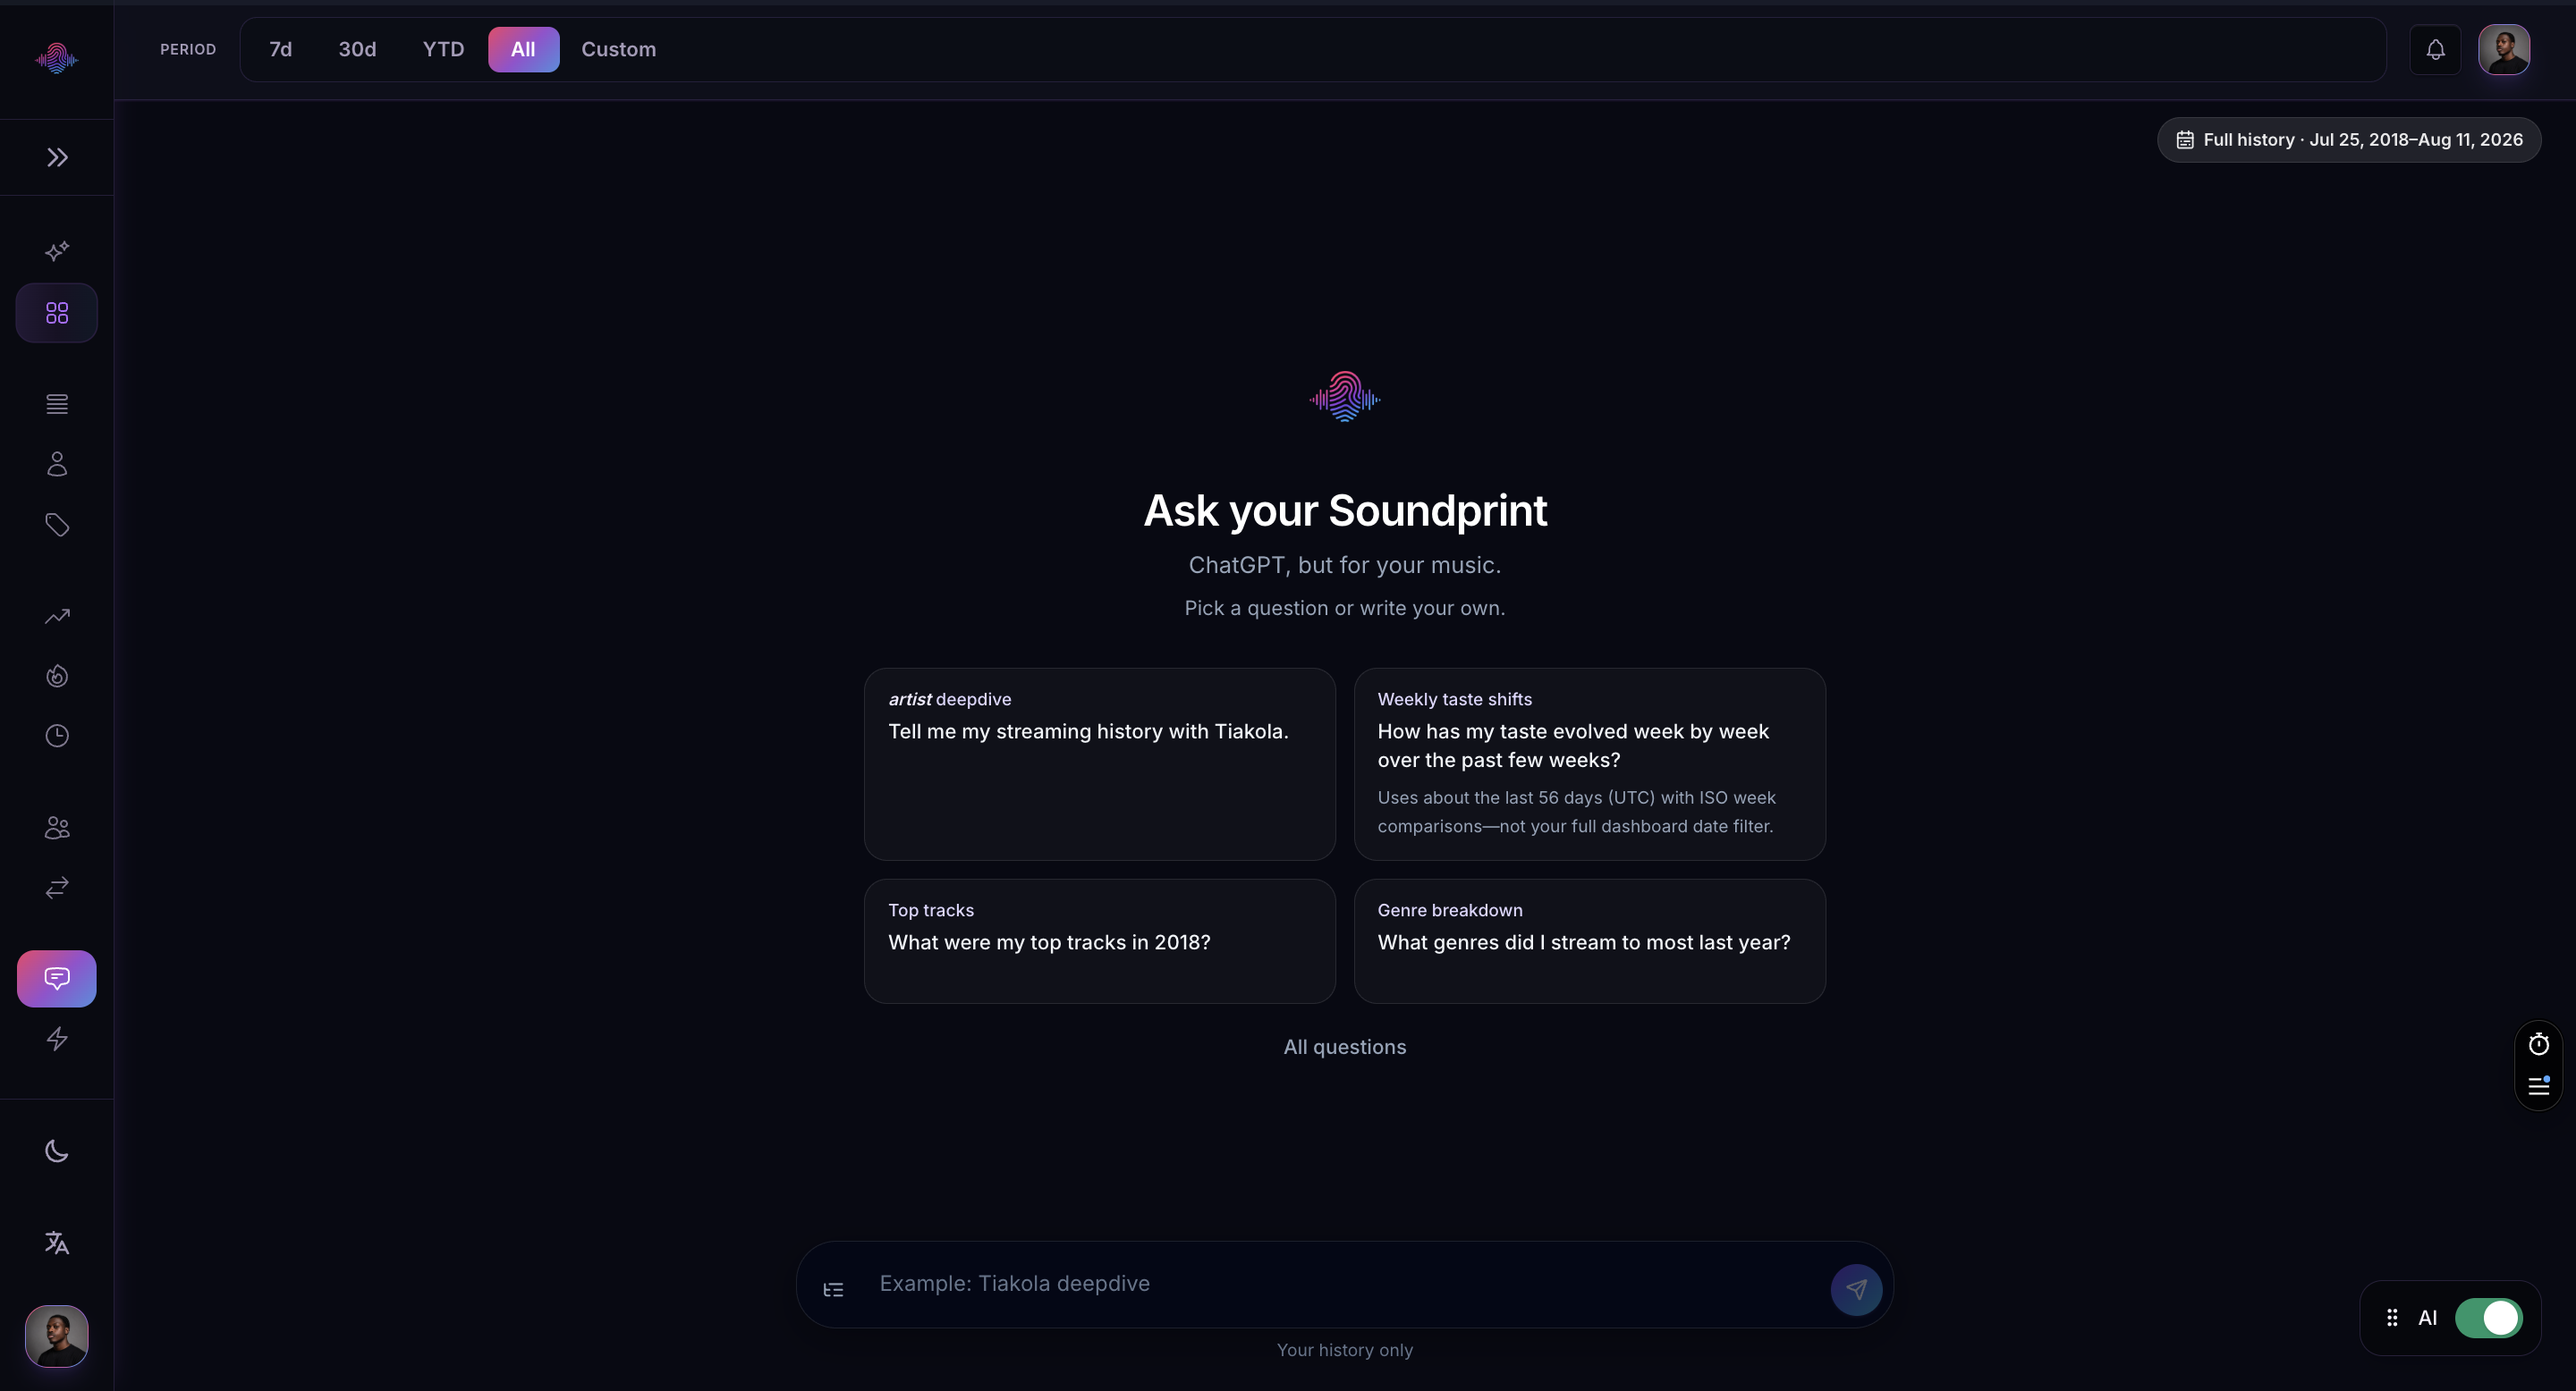
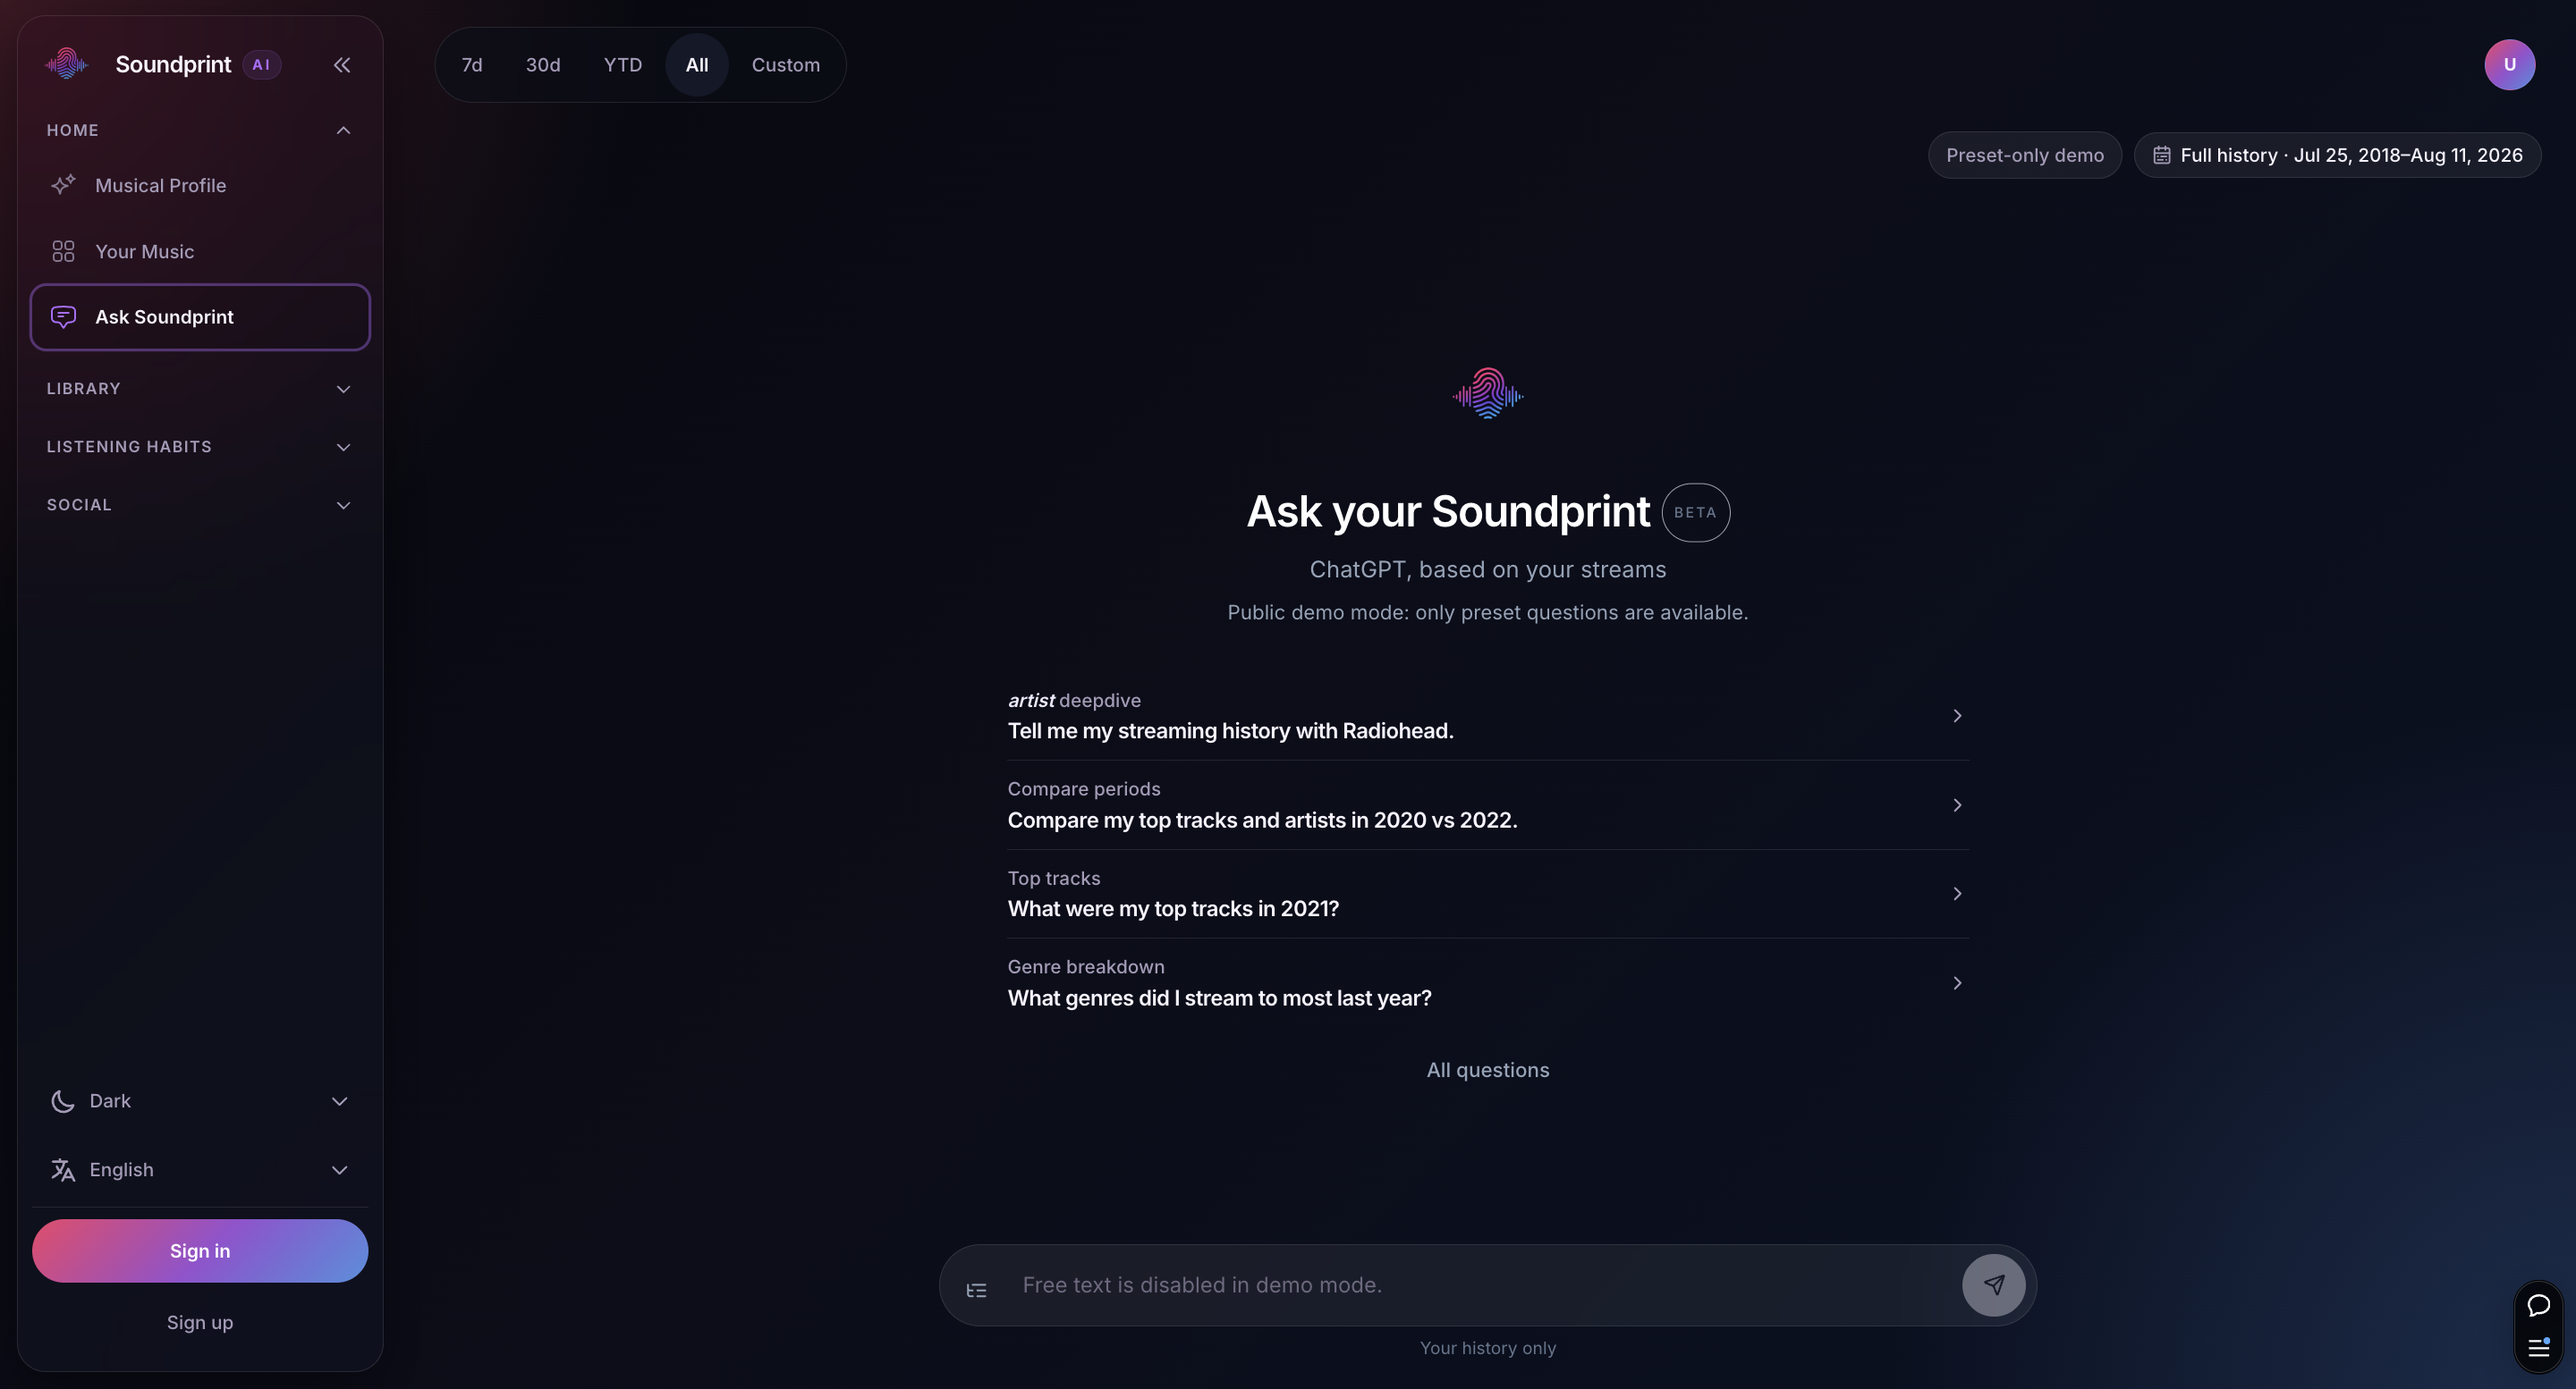
Fix Open Graph image metadata so social crawlers get an absolute share preview.

diff --git a/app/[locale]/page.tsx b/app/[locale]/page.tsx
@@ -2,6 +2,7 @@ import type { Metadata } from "next";
 import { hasLocale } from "next-intl";
 import { getTranslations } from "next-intl/server";
 import { routing } from "@/i18n/routing";
+import { getOgImage } from "@/lib/seo/og-image";
 import { languageAlternates } from "@/lib/seo/public-paths";
 import HomePageClient from "./home-page-client";
 
@@ -17,6 +18,7 @@ export async function generateMetadata({ params }: Props): Promise<Metadata> {
   }
 
   const t = await getTranslations({ locale, namespace: "metadata" });
+  const ogImage = getOgImage(t("ogImageAlt"));
 
   return {
     title: {
@@ -27,10 +29,22 @@ export async function generateMetadata({ params }: Props): Promise<Metadata> {
       canonical: `/${locale}`,
       languages: languageAlternates(""),
     },
+    // Nested openGraph replaces the parent object entirely in Next.js —
+    // redeclare images or Facebook will only "infer" one from page content.
     openGraph: {
+      type: "website",
+      locale,
+      siteName: "Soundprint-AI",
       url: `/${locale}`,
       title: t("title"),
       description: t("description"),
+      images: [ogImage],
+    },
+    twitter: {
+      card: "summary_large_image",
+      title: t("title"),
+      description: t("description"),
+      images: [ogImage.url],
     },
     robots: { index: true, follow: true },
   };

diff --git a/app/[locale]/layout.tsx b/app/[locale]/layout.tsx
@@ -3,6 +3,7 @@ import { hasLocale } from "next-intl";
 import { notFound } from "next/navigation";
 import { getTranslations } from "next-intl/server";
 import { routing } from "@/i18n/routing";
+import { getOgImage, OG_IMAGE_PATH } from "@/lib/seo/og-image";
 import { getSiteUrl } from "@/lib/seo/site-url";
 
 type Props = {
@@ -19,7 +20,7 @@ export async function generateMetadata({ params }: Props): Promise<Metadata> {
 
   const t = await getTranslations({ locale, namespace: "metadata" });
   const siteUrl = getSiteUrl();
-  const ogImage = "/brand/dashboard-preview.png";
+  const ogImage = getOgImage(t("ogImageAlt"));
   const faviconUrl = "/brand/favicon.png";
 
   return {
@@ -48,20 +49,13 @@ export async function generateMetadata({ params }: Props): Promise<Metadata> {
       siteName: "Soundprint-AI",
       title: t("title"),
       description: t("description"),
-      images: [
-        {
-          url: ogImage,
-          width: 2880,
-          height: 1556,
-          alt: t("ogImageAlt"),
-        },
-      ],
+      images: [ogImage],
     },
     twitter: {
       card: "summary_large_image",
       title: t("title"),
       description: t("description"),
-      images: [ogImage],
+      images: [OG_IMAGE_PATH],
     },
   };
 }

diff --git a/lib/seo/og-image.ts b/lib/seo/og-image.ts
@@ -1,0 +1,13 @@
+import { getSiteUrl } from "@/lib/seo/site-url";
+
+/** Social share preview — absolute URL required by Facebook/LinkedIn crawlers. */
+export const OG_IMAGE_PATH = "/brand/dashboard-preview.png";
+
+export function getOgImage(alt: string) {
+  return {
+    url: `${getSiteUrl()}${OG_IMAGE_PATH}`,
+    width: 2880,
+    height: 1556,
+    alt,
+  } as const;
+}
